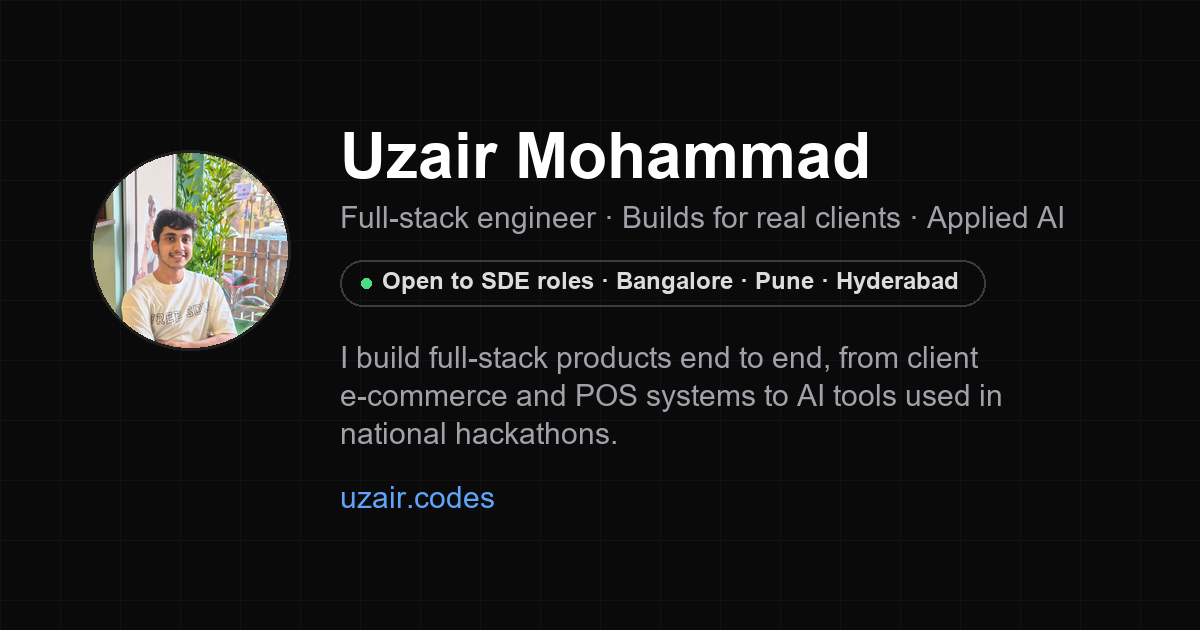
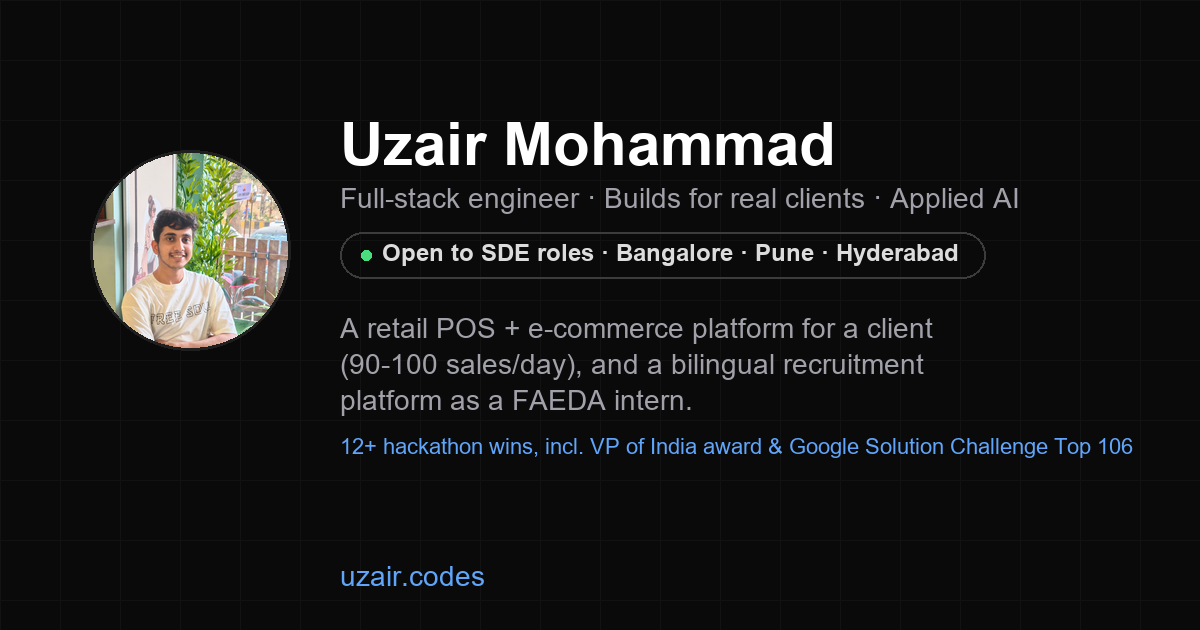
chore: update meta/OG copy and README for 12+ wins and FAEDA
Meta description, OG and Twitter copy now mention the retail POS +
e-commerce work and the FAEDA internship, with the 12+ hackathon
count matching the hero and typewriter. Regenerated og-image.png to
match. README's opening line now says 12+ wins too.

Changed region(s): [[0.2775, 0.181, 0.9558, 0.7238], [0.2775, 0.7841, 0.4317, 0.8143], [0.2775, 0.9048, 0.4008, 0.9349]]

diff --git a/index.html b/index.html
@@ -4,7 +4,7 @@
     <meta charset="UTF-8" />
     <meta name="viewport" content="width=device-width, initial-scale=1.0" />
     <title>Uzair Mohammad · Software Engineer</title>
-    <meta name="description" content="Uzair Mohammad — Full-stack engineer who builds for real clients, from e-commerce and POS systems to applied AI tools. Open to SDE roles in Bangalore, Pune, and Hyderabad." />
+    <meta name="description" content="Uzair Mohammad — Full-stack engineer shipping a retail POS + e-commerce platform for a client and a bilingual recruitment platform as a FAEDA intern. 12+ hackathon wins. Open to SDE roles in Bangalore, Pune, and Hyderabad." />
 
     <link rel="icon" type="image/png" sizes="32x32" href="/favicon-32.png" />
     <link rel="icon" type="image/png" sizes="16x16" href="/favicon-16.png" />
@@ -16,14 +16,14 @@
     <meta property="og:type" content="website" />
     <meta property="og:url" content="https://uzair.codes" />
     <meta property="og:title" content="Uzair Mohammad · Software Engineer" />
-    <meta property="og:description" content="Full-stack engineer who builds for real clients, from e-commerce and POS systems to applied AI tools. Open to SDE roles in Bangalore, Pune, and Hyderabad." />
+    <meta property="og:description" content="Full-stack engineer shipping a retail POS + e-commerce platform for a client and a bilingual recruitment platform as a FAEDA intern. 12+ hackathon wins. Open to SDE roles in Bangalore, Pune, and Hyderabad." />
     <meta property="og:image" content="https://uzair.codes/og-image.png" />
     <meta property="og:image:width" content="1200" />
     <meta property="og:image:height" content="630" />
 
     <meta name="twitter:card" content="summary_large_image" />
     <meta name="twitter:title" content="Uzair Mohammad · Software Engineer" />
-    <meta name="twitter:description" content="Full-stack engineer who builds for real clients, from e-commerce and POS systems to applied AI tools. Open to SDE roles in Bangalore, Pune, and Hyderabad." />
+    <meta name="twitter:description" content="Full-stack engineer shipping a retail POS + e-commerce platform for a client and a bilingual recruitment platform as a FAEDA intern. 12+ hackathon wins. Open to SDE roles in Bangalore, Pune, and Hyderabad." />
     <meta name="twitter:image" content="https://uzair.codes/og-image.png" />
   </head>
   <body>

diff --git a/README.md b/README.md
@@ -1,6 +1,6 @@
 # uzair.codes
 
-Uzair Mohammad's personal portfolio — a single-page site built with React, Vite, and Tailwind CSS, covering experience, projects, hackathon achievements, tech stack, and a contact form.
+Uzair Mohammad's personal portfolio — a single-page site built with React, Vite, and Tailwind CSS, covering experience, projects, 12+ hackathon wins, tech stack, and a contact form.
 
 ## Running locally
 
